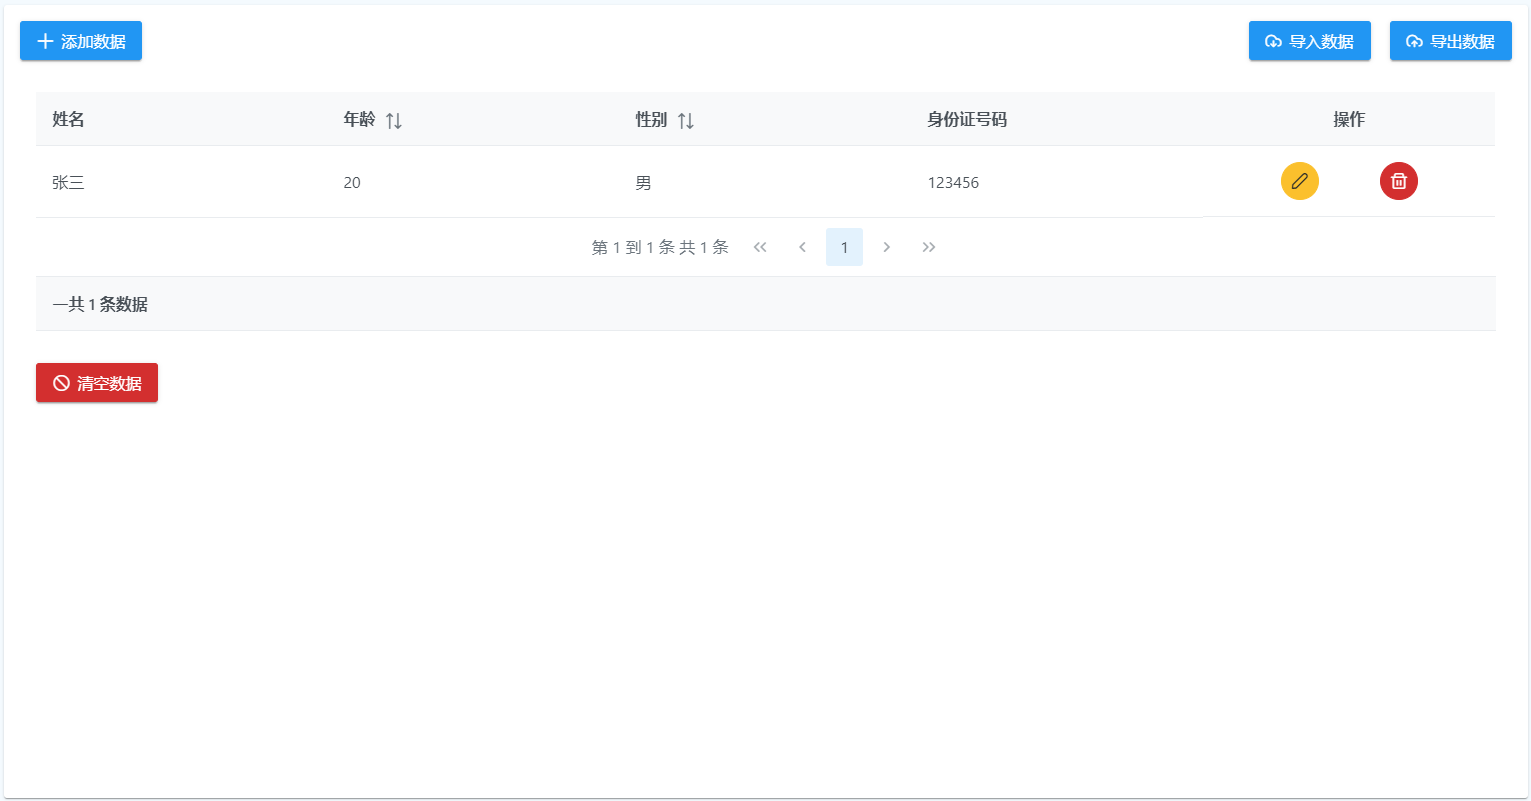
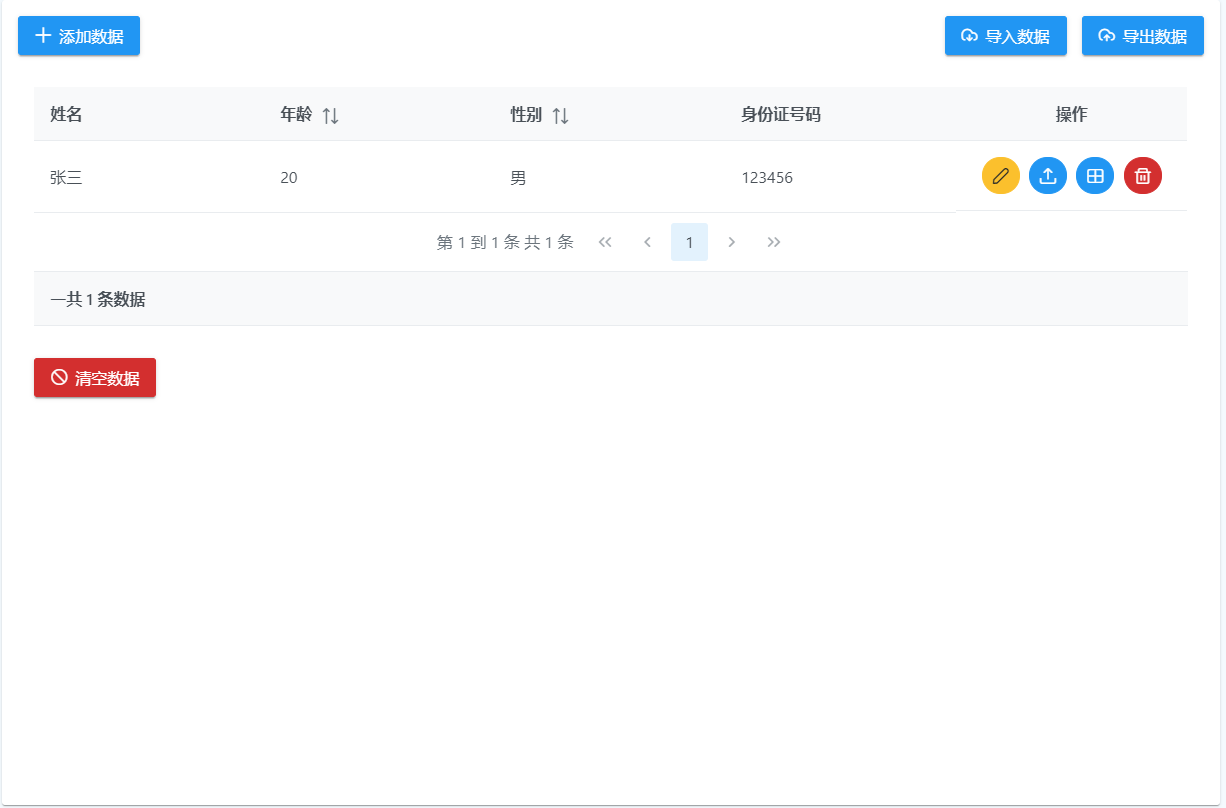
使用node拷贝文件到默认工程目录文件夹下

diff --git a/src/app/shared/utils/file_handler.ts b/src/app/shared/utils/file_handler.ts
@@ -1,0 +1,165 @@
+import { createReadStream, ReadStream, createWriteStream, WriteStream, mkdir, constants, access, lstatSync } from 'fs';
+import { FILEPATH } from '../../database/db.const';
+
+/**
+ * 读取文件流
+ * @param path 要读取的文件路径
+ * @returns 返回文件读取状态，且成功是返回读取的文件流
+ */
+const readFileStream = (path: string) => {
+    return new Promise((resolve, reject) => {
+
+        let RFS: ReadStream;
+        // 保存读取的文件流
+        let fileStream: any;
+        try {
+            // 获取文件流
+            RFS = createReadStream(path);
+        } catch (error) {
+            reject({ status: 'error', data: error });
+        }
+
+        RFS.on('open', () => {
+            console.log('文件流读取操作已开始...');
+        });
+
+        RFS.on('data', (chunk) => {
+            if (fileStream) fileStream += chunk;
+            else fileStream = chunk;
+        });
+
+        RFS.on('end', () => {
+            console.log('文件流读取操作完成.');
+            resolve({ status: 'success', data: fileStream });
+        });
+
+        RFS.on('error', (error) => {
+            reject({ status: 'error', data: error });
+        });
+    });
+}
+
+/**
+ * 写入文件流
+ * @param path 要写入的文件或文件路径
+ * @param stream 写入的文件流
+ * @returns 返回文件写入状态
+ */
+const writeFileStream = (stream: Buffer | DataView | string | Object, path: string) => {
+    return new Promise((resolve, reject) => {
+        let WFS: WriteStream;
+
+        try {
+            // 创建写入流
+            WFS = createWriteStream(path);
+            // 写入流
+            WFS.write(stream);
+            // 标记文件末尾
+            WFS.end();
+        } catch (error) {
+            reject({ status: 'error', data: error });
+        }
+
+        WFS.on('open', () => {
+            console.log('文件流写入操作已开始...');
+        });
+
+        WFS.on('finish', () => {
+            console.log('文件流写入操作以完成.');
+            resolve({ status: 'success', data: null });
+        });
+
+        WFS.on('error', (error) => {
+            reject({ status: 'error', data: error });
+        });
+    });
+}
+
+/**
+ * 文件拷贝
+ * @param {string} source 被拷贝的文件路径(带文件名)
+ * @param {string} target 要拷贝到的路径[可选]
+ * @returns 返回文件拷贝状态
+ */
+const copyFile = (source: string, target?: string) => {
+
+    const fileExtention = source.split('.');
+    if (!target) target = FILEPATH + `temp.${fileExtention[fileExtention.length - 1]}`
+
+    return new Promise((resolve, reject) => {
+        readFileStream(source).then((data: any) => {
+            console.log(data, target);
+            writeFileStream(data.data, target).then(res => {
+                resolve({ status: 'success', data: null });
+            }).catch(err => {
+                reject({ status: 'error', data: err });
+            });
+        }).catch(err => {
+            reject({ status: 'error', data: err });
+        });
+    })
+}
+
+/**
+ * 检查文件目录并创建文件夹
+ * @param path 文件夹路径[可选]
+ * @returns 返回文件夹状态，当文件夹不存在是会自动创建该文件夹
+ */
+const checkDirectory = (path: string = FILEPATH) => {
+    return new Promise((resolve, reject) => {
+        // 判断该目录是否存在
+        let pathStatus: boolean;
+        try {
+            access(path, constants.F_OK | constants.W_OK, (err => {
+                if (err) {
+                    pathStatus = false;
+                } else {
+                    pathStatus = true;
+                }
+            }));
+        } catch (error) {
+            reject({ status: 'error', data: error });
+        }
+        if (pathStatus) {
+            resolve({ status: 'success', data: null });
+        } else {
+            // 如果不存在，则创建
+            mkdir(path, { recursive: true }, (err) => {
+                if (err) {
+                    reject({ status: 'error', data: err });
+                } else {
+                    resolve({ status: 'success', data: null });
+                }
+            });
+        }
+    });
+}
+
+/**
+ * 检查文件是否存在
+ * @param path 文件路径
+ * @returns 返回文件是否存在
+ */
+const checkFile = (path: string) => {
+    return new Promise((resolve, reject) => {
+        try {
+            access(path, constants.W_OK | constants.F_OK, err => {
+                if (err) {
+                    resolve({ status: 'success', data: null });
+                } else {
+                    resolve({ status: 'success', data: 'file is exit' });
+                }
+            });
+        } catch (error) {
+            reject({ status: 'error', data: error });
+        }
+    });
+}
+
+export {
+    readFileStream,
+    writeFileStream,
+    copyFile,
+    checkDirectory,
+    checkFile
+}

diff --git a/src/app/home/home.component.ts b/src/app/home/home.component.ts
@@ -3,12 +3,16 @@ import { ConfirmationService, MessageService } from 'primeng/api';
 // 数据库相关
 import { userColt } from '../database/collection/user.collection';
 import { UserCls } from '../database/schemas/user.schema';
+import { attachmentColt } from '../database/collection/attachment.collection';
+import { attachmentSchema } from '../database/schemas/attachment.schema';
 import { DB } from '../database/db.helper';
+import { FILEPATH } from '../database/db.const';
 /**
  * Electron dialog：https://www.electronjs.org/docs/api/dialog
  */
 const { dialog } = require('electron').remote;
 const fs = require('fs');
+import { copyFile, checkDirectory, checkFile } from '../shared/utils/file_handler';
 
 interface UserData {
   id: string;
@@ -251,6 +255,58 @@ export class HomeComponent implements OnInit {
         });
       }
     });
+  }
+
+  // 上传附件
+  uploadAttachment(params: UserData) {
+    dialog.showOpenDialog({ title: '请选择文件', properties: ['showHiddenFiles', 'openFile'] }).then((path: { canceled: boolean, filePaths: Array<string> }) => {
+      if (!path.canceled) {
+        // 创建文件夹
+        checkDirectory(FILEPATH).then(m => {
+          const filePathSplit = path.filePaths[0].split('\\');
+          // 检查文件是否存在
+          checkFile(FILEPATH + filePathSplit[filePathSplit.length - 1]).then((f: any) => {
+            // 拷贝文件
+            const copyFileFun = () => {
+              copyFile(path.filePaths[0], FILEPATH + filePathSplit[filePathSplit.length - 1]).then(res => {
+                console.log(res);
+                // 文件拷贝成功，将文件相对目录写入文件
+
+
+
+
+              }).catch(err => {
+                console.log('文件拷贝出错', err);
+              });
+            }
+
+            // 如果文件已经存在
+            if (f.data) {
+              this.confirmationService.confirm({
+                message: `已经存在名为 **${filePathSplit[filePathSplit.length - 1]}** 的文件，是否要进行覆盖？`,
+                header: '请确认',
+                icon: 'pi pi-exclamation-triangle',
+                accept: () => {
+                  copyFileFun();
+                },
+                key: 'confirmDialog'
+              })
+            } else {
+              copyFileFun();
+            }
+          }).catch(err => {
+            console.log('文件检查出错', err);
+          });
+        }).catch(err => {
+          console.log('目录检查出错', err);
+        });
+      }
+    });
+  }
+
+  // 查看附件
+  viewAttachment() {
+
   }
 
 }

diff --git a/src/app/home/home.component.html b/src/app/home/home.component.html
@@ -7,8 +7,8 @@
         <div fxLayout="row" fxLayoutGap="1vw">
           <button pButton pRipple type="button" label="导入数据" pTooltip="只接受 json 格式文件。" icon="pi pi-cloud-download"
             class="p-button-raised" (click)="importJsonFun()"></button>
-          <button pButton pRipple type="button" label="导出数据"
-            icon="pi pi-cloud-upload" class="p-button-raised" (click)="exportJsonFun()"></button>
+          <button pButton pRipple type="button" label="导出数据" icon="pi pi-cloud-upload" class="p-button-raised"
+            (click)="exportJsonFun()"></button>
         </div>
       </div>
     </ng-template>
@@ -36,6 +36,13 @@
           <td style="display: flex;justify-content: space-evenly;">
             <button pButton pRipple icon="pi pi-pencil" title="修改数据" class="p-button-rounded p-button-warning p-mr-2"
               (click)="openUpdateDataDialog(data)"></button>
+
+            <button pButton pRipple icon="pi pi-upload" title="上传附件" class="p-button-rounded p-button-primary p-mr-2"
+              (click)="uploadAttachment(data)"></button>
+
+            <button pButton pRipple icon="pi pi-table" title="查看附件" class="p-button-rounded p-button-primary p-mr-2"
+              (click)="viewAttachment(data)"></button>
+
             <button pButton pRipple icon="pi pi-trash" title="删除数据" class="p-button-rounded p-button-danger"
               (click)="deleteData($event, data)"></button>
           </td>
@@ -59,8 +66,9 @@
 <!-- 提示 -->
 <p-toast position="top-center"></p-toast>
 <p-confirmPopup></p-confirmPopup>
+<p-confirmDialog [style]="{width: '50vw'}" [baseZIndex]="10000" key="confirmDialog"></p-confirmDialog>
 
-<!-- dialog——添加 -->
+<!-- dialog——添加 user info -->
 <p-dialog [header]="dialogHeader" [(visible)]="userInfoDgDiaplay" [style]="{width: '50vw'}"
   (onHide)="closeInsertDialog()">
   <div class="content">

diff --git a/src/app/database/db.const.ts b/src/app/database/db.const.ts
@@ -1,20 +1,23 @@
 import { APP_CONFIG } from '../../environments/environment';
 
-let PATH: string; // 数据库路径
+let PATH: string; // 程序运行绝对路径
 const DBNAME = "test"; // 数据库名称
 const DBPASSWORD = "test1234"; // 数据库密码
+const FILEPATH = "tcx-data/attachment/"; // 程序文件相对路径
 
 
 const ENV = process.env;
 // 如果是生产环境
 if (APP_CONFIG.production) {
-    PATH = ENV.PORTABLE_EXECUTABLE_DIR.replace(/\\/g, '/') + '/tcx-db'
+    PATH = ENV.PORTABLE_EXECUTABLE_DIR.replace(/\\/g, '/');
 } else {
-    PATH = ENV.INIT_CWD.replace(/\\/g, '/') + '/tcx-db';
+    PATH = ENV.INIT_CWD.replace(/\\/g, '/');
 }
+PATH = PATH.endsWith('/') ? PATH : PATH + '/';
 
 export {
     PATH,
     DBNAME,
-    DBPASSWORD
+    DBPASSWORD,
+    FILEPATH
 }

diff --git a/src/app/database/db.helper.ts b/src/app/database/db.helper.ts
@@ -5,11 +5,11 @@ import * as leveldown from 'leveldown';
 import * as pouchdbAdapterLeveldb from 'pouchdb-adapter-leveldb';
 addPouchPlugin(pouchdbAdapterLeveldb);
 
-import { DBNAME, DBPASSWORD, PATH } from './db.const';
+import { DBNAME, DBPASSWORD } from './db.const';
 
 const createDB = async () => {
     return await createRxDatabase({
-        name: PATH + '/' + DBNAME,
+        name: 'tcx-data/db/' + DBNAME,
         storage: getRxStoragePouch(leveldown),
         password: DBPASSWORD,
         multiInstance: true,

diff --git a/src/app/shared/primeng/primeng.module.ts b/src/app/shared/primeng/primeng.module.ts
@@ -12,6 +12,7 @@ import { InputNumberModule } from 'primeng/inputnumber';
 import { ConfirmPopupModule } from 'primeng/confirmpopup';
 import { TagModule } from 'primeng/tag';
 import { TooltipModule } from 'primeng/tooltip';
+import { ConfirmDialogModule } from 'primeng/confirmdialog';
 
 const MODULE = [
   ButtonModule,
@@ -24,7 +25,8 @@ const MODULE = [
   InputNumberModule,
   ConfirmPopupModule,
   TagModule,
-  TooltipModule
+  TooltipModule,
+  ConfirmDialogModule
 ]
 
 @NgModule({

diff --git a/README.md b/README.md
@@ -10,9 +10,10 @@
 
  - 项目构建： `npm run electorn:build`
 
-分支说明：`base`
+分支说明：`copy_file` - 关于附件
 
- - 此分支只有基本的关于 `user collection`的 `CURD` 和数据的导入导出。
+ - 附件直接拷贝到工程的相对目录中，并在数据库中存储相对路径。
+ - 附件读取也是用相对路径进行。
 
 **项目运行界面预览图**
 
